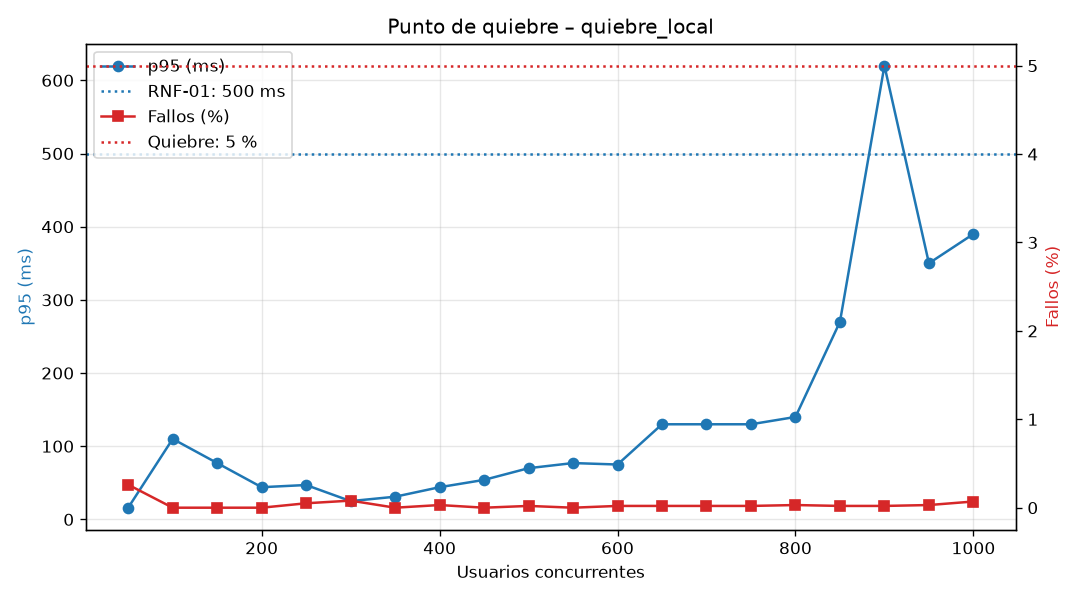
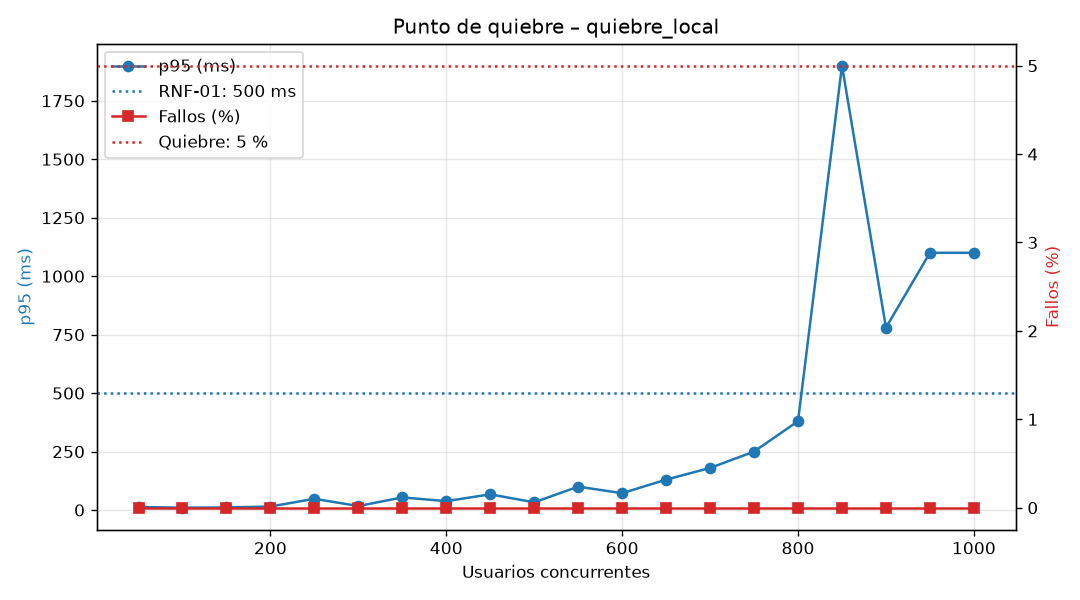
docs: registra DEF-014, DEF-015 y DEF-016 (hallazgos de rendimiento) con su evidencia antes y después

diff --git a/docs/REPORTE_DEFECTOS.md b/docs/REPORTE_DEFECTOS.md
@@ -216,3 +216,43 @@ Cada defecto sigue el ciclo de mantenimiento visto en clase:
 | Análisis de impacto | Calidad (ejecutor) → Admin (`POST /api/admin/pruebas`). |
 | Regresión ejecutada | `pytest -q` → `241 passed`; `python scripts/verificar_mutantes.py` → 6/6 detectados |
 | Estado | **Riesgo aceptado** |
+
+### DEF-014 – Conexiones reiniciadas tras 5 s sin actividad (keep-alive de uvicorn)
+| Campo | Valor |
+|---|---|
+| Detectado por | Locust, prueba de estrés local (`punto_quiebre.py`), nivel sistema, **no funcional** |
+| Severidad | Media (un profesor que espera unos segundos en el lobby puede recibir un error al iniciar la partida) |
+| Pasos para reproducir | 1. `uvicorn app.main:app --port 8000` (sin opciones). 2. `locust -f performance\punto_quiebre.py --host http://127.0.0.1:8000 --headless ...`. 3. Revisar `quiebre_local_failures.csv` |
+| Resultado esperado / obtenido | Esperado: 0 fallos de conexión. Obtenido: 21 fallos en `POST /iniciar` (`ConnectionResetError 10054`, `ConnectionAbortedError 10053`, `RemoteDisconnected`) (`DEF-014-antes.txt`) |
+| Causa encontrada (debugging) | Los fallos aparecían **solo** en `POST /iniciar`, la única petición que el presentador hace tras esperar 5 s sin enviar nada. uvicorn cierra las conexiones inactivas a los **5 s** (`--timeout-keep-alive` por defecto) y el cliente reutilizaba esa conexión justo cuando el servidor la cerraba (carrera del keep-alive). |
+| Corrección | Ejecutar uvicorn con `--timeout-keep-alive 75` (mayor que las esperas normales de un cliente y que el keep-alive de los balanceadores habituales). Se aplica en el `CMD` del Dockerfile (Fase 13) y en el README. |
+| Re-ejecución (confirmación) | Con el servidor nuevo verificado (`Get-NetTCPConnection`): carga 50 usuarios → 0 fallos; estrés hasta 1000 usuarios → 0 fallos (`DEF-014-despues.txt`). **Nota:** una primera re-ejecución no fue válida porque el servidor nuevo no arrancó (puerto ocupado por el anterior) y las pruebas corrieron contra el viejo; se detectó por el código de salida 3 y se repitió. |
+| Análisis de impacto | Configuración del servidor (despliegue): API completa. No cambia el código. |
+| Regresión ejecutada | `pytest -q` → `254 passed`; carga local: RNF-01 y RNF-02 cumplen |
+| Estado | **Cerrado** (la configuración queda fija en el Dockerfile de la Fase 13) |
+
+### DEF-015 – El script de carga avanza partidas que no se iniciaron (409 falsos)
+| Campo | Valor |
+|---|---|
+| Detectado por | Locust (fallos `409` en `POST /siguiente`), revisando la causa de DEF-014 |
+| Severidad | Baja (defecto del **script de prueba**: inflaba la tasa de fallos) |
+| Pasos para reproducir | Igual que DEF-014: 21 × `409 Conflict` en `POST /siguiente` |
+| Causa encontrada (debugging) | En `Presentador.dirigir_partida`, si `POST /iniciar` fallaba por la conexión (status 0), el código seguía el bucle y llamaba a `/siguiente` sobre una partida en LOBBY → 409. Coincidía 1 a 1 con los fallos de `/iniciar`. |
+| Corrección | Commit `fix(rendimiento): el presentador no avanza la partida si iniciar falló (DEF-015)` |
+| Re-ejecución (confirmación) | Sin `409` en `/siguiente` en las corridas siguientes (`DEF-015-despues.txt`) |
+| Análisis de impacto | Solo `performance/locustfile.py` (y `punto_quiebre.py`, que usa sus usuarios). |
+| Regresión ejecutada | `pytest -q` → `254 passed` |
+| Estado | **Cerrado** |
+
+### DEF-016 – El script de carga agota el cupo de 500 partidas con partidas vacías
+| Campo | Valor |
+|---|---|
+| Detectado por | Locust: 1246 × `409` en `POST /api/partidas` ("Se alcanzó el máximo de 500 partidas") en la segunda corrida de estrés (`DEF-016-antes.txt`) |
+| Severidad | Media (falseaba el punto de quiebre: la prueba "quebraba" en 800 usuarios por el cupo, no por el rendimiento) |
+| Pasos para reproducir | Estrés con el locustfile anterior contra un servidor con partidas de corridas previas |
+| Causa encontrada (debugging) | Todos los jugadores se unían a la **última** partida publicada; con muchos presentadores, las demás quedaban vacías, el presentador las abandonaba (409 al iniciar) y creaba otra cada ~6 s. Las partidas abandonadas en LOBBY viven 30 min (`PARTIDA_TTL_MINUTOS`) y llenaron el cupo `MAX_PARTIDAS=500`. El límite del servidor funcionó como se diseñó (409 con mensaje claro). |
+| Corrección | Commit `fix(rendimiento): los jugadores se reparten entre las partidas abiertas y el presentador no abandona la suya vacía (DEF-016)`. **Mejora preventiva propuesta** (no implementada): limpiar antes las partidas en LOBBY sin jugadores, para que nadie pueda agotar el cupo creando partidas vacías. |
+| Re-ejecución (confirmación) | Estrés hasta 1000 usuarios: 0 × `409` en `POST /api/partidas`, 0 fallos (`DEF-016-despues.txt`) |
+| Análisis de impacto | Script de carga. En el servidor: Gestor (cupo y limpieza), anotado como riesgo. |
+| Regresión ejecutada | `pytest -q` → `254 passed` |
+| Estado | **Cerrado** (riesgo del cupo anotado en `RESULTADOS_RENDIMIENTO.md`) |

diff --git a/performance/resultados/quiebre_local_reporte.md b/performance/resultados/quiebre_local_reporte.md
@@ -4,26 +4,26 @@
 
 | Usuarios | Peticiones | p95 (ms) | Fallos (%) | Peticiones/s | Estado |
 |---|---|---|---|---|---|
-| 50 | 761 | 16 | 0.26 | 28.3 | OK |
-| 100 | 1668 | 110 | 0.00 | 65.9 | OK |
-| 150 | 2563 | 77 | 0.00 | 112.3 | OK |
-| 200 | 3337 | 44 | 0.00 | 153.7 | OK |
-| 250 | 4270 | 47 | 0.05 | 194.5 | OK |
-| 300 | 4968 | 25 | 0.08 | 237.1 | OK |
-| 350 | 5741 | 31 | 0.00 | 269.8 | OK |
-| 400 | 6451 | 44 | 0.03 | 309.3 | OK |
-| 450 | 7398 | 54 | 0.00 | 351.7 | OK |
-| 500 | 8117 | 70 | 0.02 | 387.1 | OK |
-| 550 | 9015 | 77 | 0.00 | 432.0 | OK |
-| 600 | 9611 | 75 | 0.02 | 466.2 | OK |
-| 650 | 9893 | 130 | 0.02 | 498.3 | OK |
-| 700 | 10958 | 130 | 0.02 | 528.3 | OK |
-| 750 | 11438 | 130 | 0.02 | 577.1 | OK |
-| 800 | 12759 | 140 | 0.03 | 614.5 | OK |
-| 850 | 12608 | 270 | 0.02 | 639.9 | OK |
-| 900 | 12624 | 620 | 0.02 | 621.5 | DEGRADADO |
-| 950 | 14614 | 350 | 0.03 | 690.8 | OK |
-| 1000 | 14567 | 390 | 0.07 | 715.2 | OK |
+| 50 | 779 | 13 | 0.00 | 28.0 | OK |
+| 100 | 1689 | 10 | 0.00 | 68.8 | OK |
+| 150 | 2543 | 11 | 0.00 | 110.2 | OK |
+| 200 | 3325 | 15 | 0.00 | 152.6 | OK |
+| 250 | 4262 | 48 | 0.00 | 196.7 | OK |
+| 300 | 5072 | 17 | 0.00 | 238.2 | OK |
+| 350 | 5953 | 54 | 0.00 | 277.0 | OK |
+| 400 | 6787 | 38 | 0.00 | 325.1 | OK |
+| 450 | 7784 | 67 | 0.00 | 371.9 | OK |
+| 500 | 8532 | 33 | 0.00 | 406.3 | OK |
+| 550 | 9350 | 100 | 0.00 | 451.2 | OK |
+| 600 | 10134 | 72 | 0.00 | 490.5 | OK |
+| 650 | 10394 | 130 | 0.00 | 521.4 | OK |
+| 700 | 11555 | 180 | 0.00 | 548.5 | OK |
+| 750 | 11513 | 250 | 0.00 | 580.0 | OK |
+| 800 | 11795 | 380 | 0.00 | 579.1 | OK |
+| 850 | 9151 | 1900 | 0.00 | 500.2 | DEGRADADO |
+| 900 | 11213 | 780 | 0.00 | 569.1 | DEGRADADO |
+| 950 | 11425 | 1100 | 0.00 | 541.4 | DEGRADADO |
+| 1000 | 11197 | 1100 | 0.00 | 541.9 | DEGRADADO |
 
-- **Punto de degradación** (incumple RNF-01 o RNF-02): 900 usuarios
+- **Punto de degradación** (incumple RNF-01 o RNF-02): 850 usuarios
 - **Punto de quiebre** (> 5 % de fallos o p95 > 2000 ms): no se alcanzó hasta 1000 usuarios
